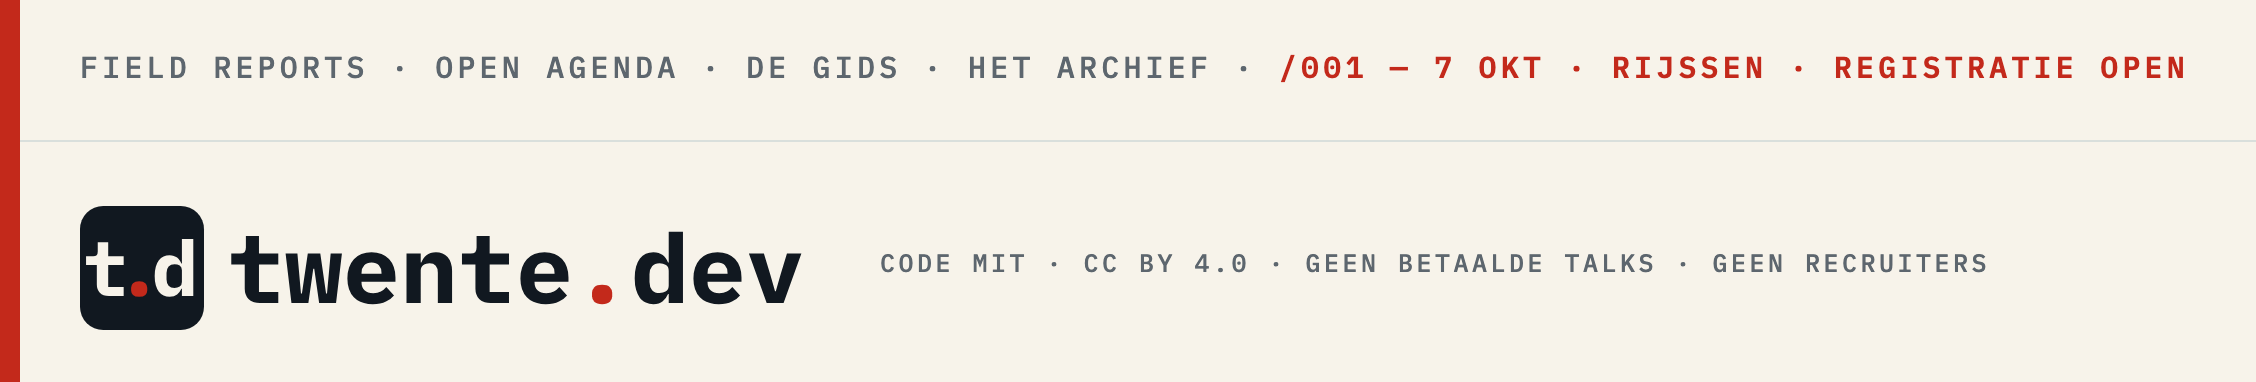
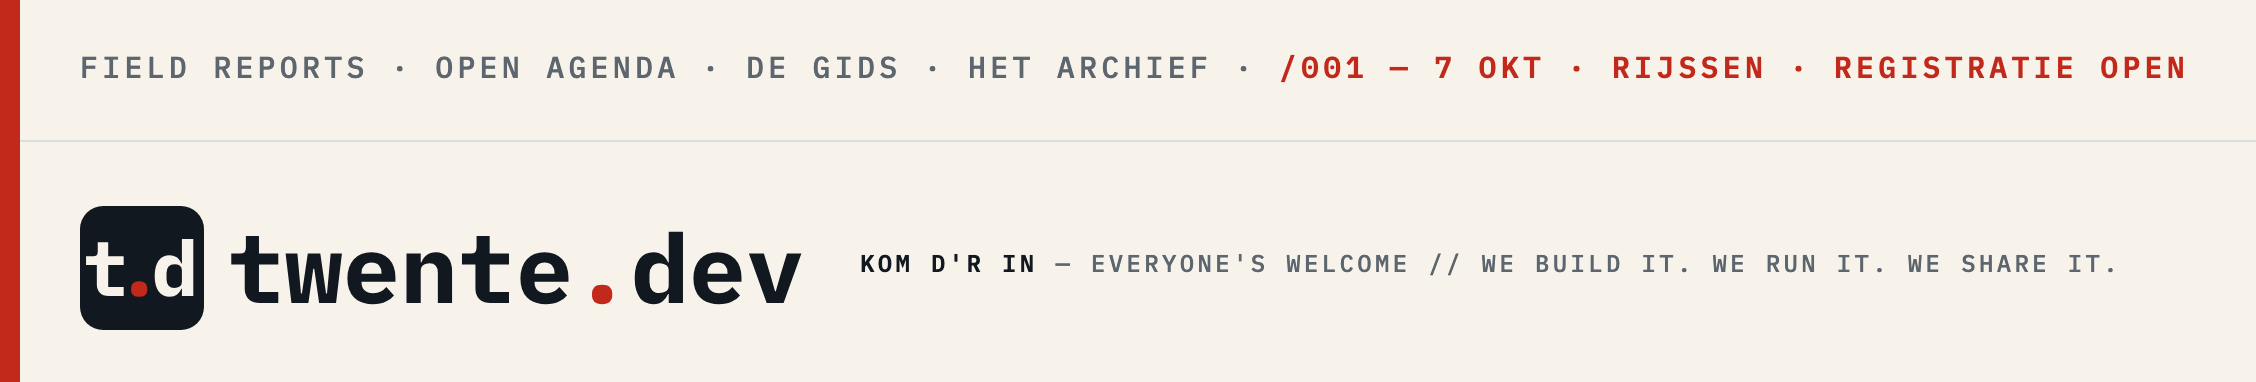
fix(brand): vertrekbord-onderregel — kom d'r in // de tagline
De waarborgen-opsomming leest als kleine lettertjes; de onderregel is nu
het welkom met de Engelse gloss en de tagline erachter:
kom d'r in — everyone's welcome // we build it. we run it. we share it.

Changed region(s): [[0.3723, 0.6623, 0.9309, 0.7199]]

diff --git a/docs/brand/templates/banners.html b/docs/brand/templates/banners.html
@@ -493,7 +493,7 @@
         <div class="lk" style="left: 40px; bottom: 26px; height: 62px">
           <svg viewBox="0 0 930.837 160"><use href="#lock-ink" /></svg>
         </div>
-        <div class="ticker" style="left: 440px; right: 24px; bottom: 52px; font-size: 12.5px"><span>code mit · cc by 4.0 · geen betaalde talks · geen recruiters</span></div>
+        <div class="ticker" style="left: 430px; right: 24px; bottom: 52px; font-size: 12px"><b>kom d'r in</b><span> — everyone's welcome // we build it. we run it. we share it.</span></div>
       </div>
     </div>
 
@@ -506,7 +506,7 @@
         <div class="lk" style="left: 40px; bottom: 26px; height: 62px">
           <svg viewBox="0 0 930.837 160"><use href="#lock-paper" /></svg>
         </div>
-        <div class="ticker" style="left: 440px; right: 24px; bottom: 52px; font-size: 12.5px"><span>code mit · cc by 4.0 · geen betaalde talks · geen recruiters</span></div>
+        <div class="ticker" style="left: 430px; right: 24px; bottom: 52px; font-size: 12px"><b>kom d'r in</b><span> — everyone's welcome // we build it. we run it. we share it.</span></div>
       </div>
     </div>
 
